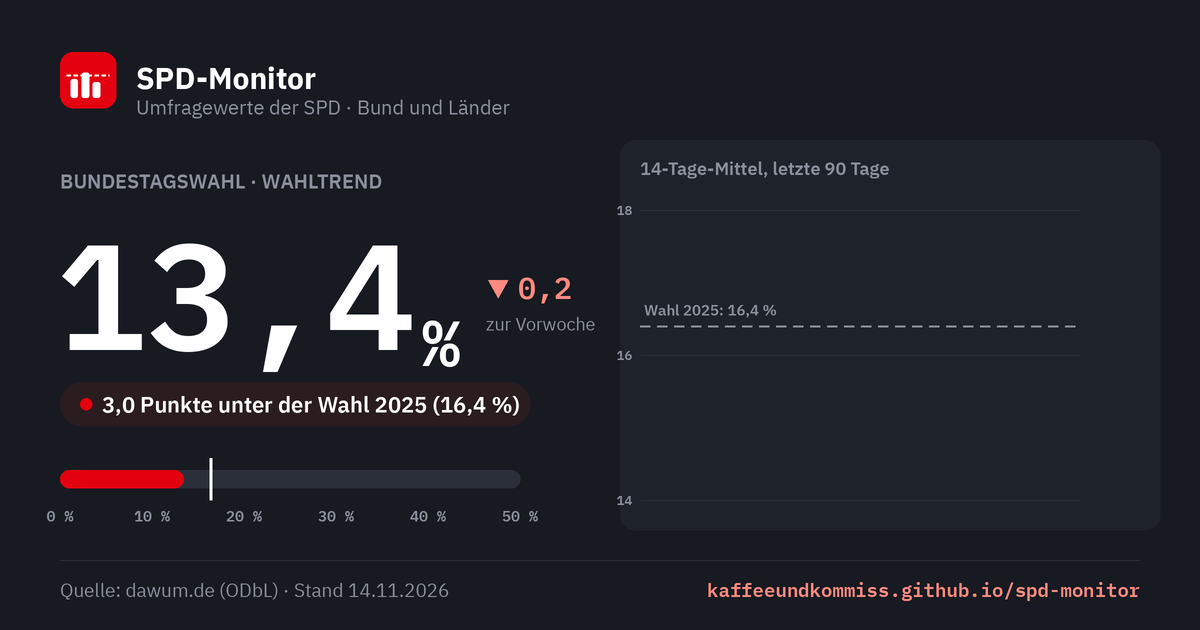
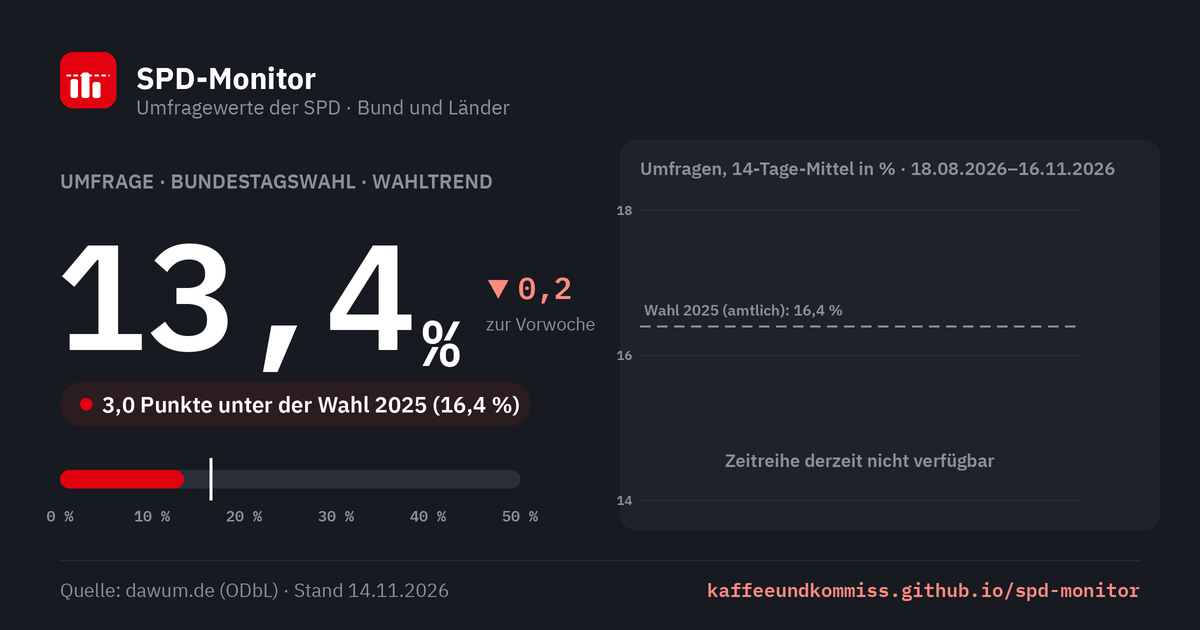
Diagramme eindeutig beschriften: Umfrage, amtliches Ergebnis, Chronik
Kennzeichen je Diagramm, Einheit, Zeitraum und Stand; Vorschaubilder
(og/make-og.py) mit derselben Kennzeichnung, damit das wöchentliche
Update die Beschriftung nicht überschreibt.

Claude-Session: https://claude.ai/code/session_01AuP7hKA5r64Vaqp6wB3yAR

diff --git a/index.html b/index.html
@@ -133,6 +133,9 @@
   .liste .lkopf{display:flex;justify-content:space-between;align-items:baseline;padding-bottom:8px;border-bottom:1px solid var(--line)}
   .liste .lkopf h3{margin:0;font-size:15px;font-weight:600}
   .liste .lkopf .skl{font-size:13px;color:var(--mute)}
+  .liste .llegende{margin:8px 0 0;font-size:13px;color:var(--mute)}
+  .abschnitt-legende{margin:6px 0 0;font-size:13px;color:var(--mute);max-width:46em}
+  .kachel .wart{font-size:12px;font-weight:600;color:var(--mute);margin-top:6px}
   .inst-zeile{display:grid;grid-template-columns:150px 1fr 60px;align-items:center;gap:14px;padding:7px 0;border-bottom:1px solid var(--hair)}
   .inst-zeile .nam{font-weight:500;font-size:14px;white-space:nowrap;overflow:hidden;text-overflow:ellipsis}
   .inst-zeile .dat{font-family:var(--mono);font-size:13px;color:var(--mute)}
@@ -240,7 +243,7 @@
   }
 .einstieg{margin:0 0 -20px;max-width:40em;color:var(--mute);font-size:16px;line-height:1.5}
 </style>
-<link rel="stylesheet" href="bereich.css?v=2">
+<link rel="stylesheet" href="bereich.css?v=3">
 </head>
 <body>
 <div class="kk-leiste"><div class="kk-in">
@@ -280,23 +283,28 @@
   <section id="bund-hero" aria-labelledby="bund-titel" data-teilen="Bundestagswahl"></section>
 
   <section id="bund-verlauf" class="karte verlauf" aria-labelledby="verlauf-titel" data-teilen="Zeitverlauf Bund" hidden>
+    <span class="art umfrage">Umfragen</span>
     <h2 id="verlauf-titel">SPD im Zeitverlauf · Bund</h2>
     <p class="sub" id="verlauf-sub">Punkte: Einzelumfragen · Linie: 14-Tage-Mittel</p>
     <div id="verlauf-chart" class="fv-chart"></div>
-    <p class="fv-quelle">Quelle: <a href="https://dawum.de/Bundestag/" rel="noopener">dawum.de</a> · 14-Tage-Mittel ungewichtet</p>
+    <p class="fv-quelle" id="verlauf-quelle">Quelle: <a href="https://dawum.de/Bundestag/" rel="noopener">dawum.de</a> (ODbL) · 14-Tage-Mittel ungewichtet</p>
   </section>
 
   <section id="anstehend" aria-labelledby="anstehend-titel" data-teilen="Anstehende Wahlen">
+    <span class="art umfrage">Umfragen</span>
     <div class="kopfzeile">
       <h2 id="anstehend-titel">Anstehende Wahlen</h2>
       <span class="hint">nächster Termin zuerst</span>
     </div>
+    <p class="abschnitt-legende">Große Zahl: Umfragewert in % (Wahltrend, sonst Ø der neuesten Umfrage je Institut), kein Ergebnis. Balken 0–50 %, gestrichelt: amtliches Ergebnis der letzten Wahl im Land.</p>
     <div class="kacheln" id="anstehend-grid" style="margin-top:16px"></div>
-    <p class="quelle">Quelle: <a href="https://dawum.de" rel="noopener">dawum.de</a> (ODbL) · ohne Wahltrend: Ø der neuesten Umfrage je Institut · Vergleich: amtliches Ergebnis der letzten Wahl im Land</p>
+    <p class="quelle">Quelle: <a href="https://dawum.de" rel="noopener">dawum.de</a> (ODbL) · ohne Wahltrend: Ø der neuesten Umfrage je Institut · Vergleich: amtliches Ergebnis der letzten Wahl im Land<span id="anstehend-stand"></span></p>
   </section>
 
   <section id="gelaufen" aria-labelledby="gelaufen-titel" data-teilen="Gelaufene Wahlen" data-quelle="amtliche Endergebnisse der Landeswahlleitungen" hidden>
+    <span class="art amtlich">Amtliche Ergebnisse</span>
     <div class="kopfzeile"><h2 id="gelaufen-titel">Gelaufene Wahlen</h2></div>
+    <p class="abschnitt-legende">Amtliche Endergebnisse in %, Quelle je Zeile. Zur Vorwahl: Veränderung in Prozentpunkten. Balken 0–50 %, gestrichelt: Ergebnis der Wahl davor.</p>
     <div class="karte tabelle" id="gelaufen-tabelle" style="margin-top:16px"></div>
   </section>
 </main>
@@ -480,6 +488,10 @@
     return '';
   }
 
+  // Kennzeichen über jedem Diagramm: Umfrage oder amtliches Ergebnis (Gestaltung in bereich.css).
+  const artMarke = (art) => art === 'amtlich'
+    ? '<span class="art amtlich">Amtliches Ergebnis</span>' : '<span class="art umfrage">Umfragen</span>';
+
   const gruppen = gruppiereEbenen(data.ebenen || [], NOW);
 
   // ---------- Bund-Hero ----------
@@ -506,6 +518,7 @@
 
     heroEl.innerHTML = `<div class="karte hero">
       <div class="zahlen">
+        ${artMarke(lz.art === 'ergebnis' ? 'amtlich' : 'umfrage')}
         <h2 class="ueberschrift" id="bund-titel">${esc(bund.name)} · ${
           lz.art === 'trend' ? 'Wahltrend' : lz.art === 'ergebnis' ? 'Amtliches Ergebnis' : 'Ø der Umfragen'}</h2>
         <div class="leitzahl">
@@ -521,7 +534,7 @@
             ${balken(lz.wert, ref, (ref ? '<div class="marklbl">Wahl ' + esc(ref.jahr) + ': ' + pz(ref.wert) + '</div>' : '') + punkte)}
           </div>
           <div class="achse"><span>0 %</span><span>10 %</span><span>20 %</span><span>30 %</span><span>40 %</span><span>50 %</span></div>
-          <div class="legende">Balken: ${lz.art === 'trend' ? 'Wahltrend' : 'Leitzahl'} · Punkte: Einzelumfragen${ref ? ' · gestrichelt: Ergebnis der Wahl ' + esc(ref.jahr) : ''}</div>
+          <div class="legende">Angaben in %. Balken: ${lz.art === 'trend' ? 'Wahltrend (Umfragen)' : lz.art === 'ergebnis' ? 'amtliches Ergebnis' : 'Ø der Umfragen'} · Punkte: Einzelumfragen${ref ? ' · gestrichelt: amtliches Ergebnis der Wahl ' + esc(ref.jahr) : ''}</div>
         </div>
         <dl class="kennzahlen">
           <div><dt>Ø neueste Umfrage je Institut</dt><dd>${lz.avg == null ? '–' : pz(lz.avg)}</dd></div>
@@ -539,6 +552,7 @@
           <div class="lkopf">
             <h3>Neueste Umfrage je Institut</h3><span class="skl">Skala 0–50 %</span>
           </div>
+          <p class="llegende">Balken: Umfragewert in %${ref ? ' · gestrichelt: amtliches Ergebnis der Wahl ' + esc(ref.jahr) : ''}</p>
           ${rows.length ? rows.slice().sort((a, b) => (b.datum || '').localeCompare(a.datum || '')).map((r) =>
             `<div class="inst-zeile">
                <div><div class="nam">${esc(r.institut)}</div><div class="dat">${dfmt(r.datum)}</div></div>
@@ -584,8 +598,17 @@
     }
     const linie = gleitendesMittel(punkte, FENSTER);
     const sub = document.getElementById('verlauf-sub');
-    if(sub) sub.textContent = `Letzte ${TAGE} Tage · Punkte: Einzelumfragen · `
-      + `Linie: ${FENSTER}-Tage-Mittel`;
+    // Zeitraum und Stand als Datum, nicht nur "letzte 90 Tage": ein Screenshot muss
+    // auch Wochen später noch sagen, welches Fenster er zeigt.
+    const refV = vw(bund);
+    const bisT = NOW || new Date();
+    const vonT = new Date(Date.UTC(bisT.getUTCFullYear(), bisT.getUTCMonth(), bisT.getUTCDate()) - TAGE * 864e5);
+    const isoT = (t) => new Date(t).toISOString().slice(0, 10);
+    if(sub) sub.textContent = `Umfragewerte Bundestagswahl in %, ${dfmt(isoT(vonT))}–${dfmt(isoT(bisT))} `
+      + `(letzte ${TAGE} Tage) · Punkte: Einzelumfragen · Linie: ${FENSTER}-Tage-Mittel`
+      + (refV ? ` · gestrichelt: amtliches Ergebnis ${refV.jahr}` : '');
+    const vq = document.getElementById('verlauf-quelle');
+    if(vq) vq.append(` · letzte Umfrage vom ${dfmt(isoT(punkte[punkte.length - 1].t))}`);
 
     const NS = 'http://www.w3.org/2000/svg';
     const el = (n, a, eltern) => { const e = document.createElementNS(NS, n);
@@ -664,7 +687,7 @@
       // Beschriftung der letzten Wahl erst nach den Punkten zeichnen: so liegt ihr Hof
       // über den Umfragepunkten und die Angabe bleibt auch am Handy lesbar.
       if(ref) el('text', {x: ml + 4, y: Y(ref.wert) - 6, 'font-size': 12, 'font-weight': 600,
-        class: 'fv-frei', fill: 'var(--fv-vorwahl)'}, svg).textContent = 'Wahl ' + ref.jahr + ': ' + fmt(ref.wert) + ' %';
+        class: 'fv-frei', fill: 'var(--fv-vorwahl)'}, svg).textContent = 'Wahl ' + ref.jahr + ' (amtlich): ' + fmt(ref.wert) + ' %';
 
       const letzte = linie[linie.length - 1];
       el('text', {x: Math.min(X(letzte.t) + 6, W - 4), y: Y(letzte.v), dy: '0.32em',
@@ -758,6 +781,7 @@
         </div>
         ${tage != null ? `<span class="tage">in ${tage} T.</span>` : ''}
       </div>
+      <div class="wart">${lz.art === 'ergebnis' ? 'Amtliches Ergebnis' : lz.art === 'trend' ? 'Umfrage · Wahltrend' : 'Umfrage · Ø'}</div>
       <div class="wert">
         <span class="num">${lz.wert == null ? '–' : pz(lz.wert)}</span>
         <span class="pill ${h.status}">${esc(datenhinweis ? 'nicht ausgewiesen' : h.kurz)}</span>
@@ -780,8 +804,8 @@
     document.getElementById('gelaufen-tabelle').innerHTML = `<table>
       <thead><tr>
         <th>Wahl</th><th>Datum</th>
-        <th style="text-align:right">Ergebnis</th>
-        ${mitTrend ? '<th style="text-align:right">Letzter Trend</th>' : ''}
+        <th style="text-align:right">Ergebnis (amtl.)</th>
+        ${mitTrend ? '<th style="text-align:right">Letzter Wahltrend (Umfrage)</th>' : ''}
         <th class="vgl" style="text-align:right">Zur Vorwahl</th>
         <th class="abstand">Ergebnis und Vorwahl</th>
       </tr></thead>
@@ -798,7 +822,7 @@
         return `<tr id="zeile-${esc(e.id)}">
           <td class="wahl">${esc(teileName(e.name).land)}${beleg}</td>
           <td class="mono">${dfmt(e.wahltermin)}</td>
-          <td class="erg">${lz.wert != null ? pz(lz.wert) + (erg.vorlaeufig ? ' *' : '') : '–'}${vgl
+          <td class="erg">${lz.wert != null ? pz(lz.wert) + (lz.art !== 'ergebnis' ? ' (Umfrage)' : erg.vorlaeufig ? ' *' : '') : '–'}${vgl
             ? '<span class="vgl-kurz">' + vgl + ' zu ' + esc(vw(e).jahr) + '</span>' : ''}</td>
           ${mitTrend ? `<td class="trend">${t.wert != null ? pz(t.wert) : '–'}</td>` : ''}
           <td class="vgl" title="${vgl ? 'Wahl ' + esc(vw(e).jahr) + ': ' + pz(vw(e).wert) : ''}">${vgl || '–'}</td>
@@ -808,6 +832,13 @@
       ${gelaufen.some((e) => (e.wahlergebnis || {}).vorlaeufig)
         ? '<p class="basis" style="padding:0 20px 14px">* vorläufiges amtliches Ergebnis</p>' : ''}`;
   }
+
+  const standSeite = SNAP ? 'Momentaufnahme ' + kwText(SNAP) : data.erstellt ? 'Stand ' + dfmt(data.erstellt) : '';
+  const ast = document.getElementById('anstehend-stand');
+  // Die Kacheln zeigen live abgerufene Umfragen, wenn dawum erreichbar war – dann gilt deren Stand.
+  const liveStand = !SNAP && db && db.Database && db.Database.Last_Update;
+  if(ast) ast.textContent = liveStand ? ' · Umfragen live, Datenbank-Stand ' + dfmt(liveStand)
+    : standSeite ? ' · ' + standSeite : '';
 
   // Link- und Bild-Knöpfe erst jetzt: die Abschnitte sind gerendert, und ein #Anker
   // aus einem geteilten Link kann angesprungen werden.

diff --git a/partei-seite.js b/partei-seite.js
@@ -15,6 +15,8 @@
       .map((b) => `<a href="${esc(b.url)}" rel="noopener">${esc(b.name)}</a>`);
     const hinweis = (d.belege_hinweis || {})[k];
     const teile = [links.length ? 'Quelle: ' + links.join(' · ') : '', hinweis ? esc(hinweis) : ''].filter(Boolean);
+    if(teile.length && d.stand && ['wahlen', 'zeitleiste', 'vorsitz'].includes(k))
+      teile.push('· Stand ' + dfmt(d.stand) + ' (zuletzt geprüft)');
     if(teile.length) p.innerHTML = teile.join(' '); else p.remove();
   });
 
@@ -66,11 +68,15 @@
   if(k && $('kennzahlen')){
     const regierung = d.wahlen.filter((w) => w.rolle === 'Regierung').length;
     document.getElementById('kennzahlen').innerHTML = [
-      ['Bestes Ergebnis', fmt(k.best.ergebnis) + ' %', 'Bundestagswahl ' + k.best.jahr, ''],
-      ['Letztes Ergebnis', fmt(k.letzte.ergebnis) + ' %', 'Bundestagswahl ' + k.letzte.jahr + ' · ' + k.letzte.rolle, ''],
+      ['Bestes Ergebnis', fmt(k.best.ergebnis) + ' %', 'Bundestagswahl ' + k.best.jahr + ' · amtlich', ''],
+      ['Letztes Ergebnis', fmt(k.letzte.ergebnis) + ' %', 'Bundestagswahl ' + k.letzte.jahr + ' · amtlich · danach ' + k.letzte.rolle, ''],
       ['In Regierung danach', regierung + ' von ' + k.anzahl, 'Wahlperioden nach den Wahlen ' + d.wahlen[0].jahr + '–' + k.letzte.jahr, ''],
     ].map(([l, n, s, c]) => `<div class="karte"><div class="lbl">${esc(l)}</div><div class="num ${c}">${esc(n)}</div><div class="sub">${esc(s)}</div></div>`).join('');
   }
+
+  // ---------- Zeitraum je Diagramm (Titel/Untertitel) ----------
+  if((d.wahlen || []).length && $('wahlen-titel'))
+    $('wahlen-titel').textContent = 'Bundestagswahlen ' + d.wahlen[0].jahr + '–' + d.wahlen[d.wahlen.length - 1].jahr;
 
   // ---------- Bundesvorsitzende: Kennzahlen und Tabelle ----------
   // Laufende Amtszeit zählt bis heute, deshalb einmal beim Laden berechnet.
@@ -104,6 +110,7 @@
     const mt = 4, mb = 24, zh = 24, H = mt + zeiten.length * zh + mb;
     svg.setAttribute('viewBox', `0 0 ${W} ${H}`);
     const von = Date.UTC(Math.min(...zeiten.map((z) => new Date(z.a).getUTCFullYear())), 0, 1), bis = Math.max(...zeiten.map((z) => z.b));
+    if($('vorsitz-zeitraum')) $('vorsitz-zeitraum').textContent = 'Zeitraum ' + new Date(von).getUTCFullYear() + ' bis heute, x-Achse in Jahren. ';
     const X = (t) => ml + (t - von) / (bis - von) * (W - ml - mr);
     const tip = tooltip(host);
     const schritt = schmal ? 20 : 10;
@@ -127,7 +134,7 @@
   function wahlen(){
     const host = document.getElementById('chart-wahlen'); host.replaceChildren();
     const rows = d.wahlen, W = Math.max(280, host.clientWidth), H = 250, schmal = W < 420;
-    const ml = 30, mr = 6, mt = 22, mb = 26;
+    const ml = schmal ? 30 : 42, mr = 6, mt = 22, mb = 26;
     const yMax = Math.max(16, Math.ceil(Math.max(...rows.map((r) => r.ergebnis)) / 10) * 10);
     const band = (W - ml - mr) / rows.length, bw = Math.min(32, band * 0.62);
     const X = (i) => ml + i * band + band / 2, Y = (v) => H - mb - v / yMax * (H - mt - mb);
@@ -136,7 +143,7 @@
     const tip = tooltip(host);
     for(let v = 0; v <= yMax; v += 10){
       el('line', {x1: ml, x2: W - mr, y1: Y(v), y2: Y(v), stroke: 'var(--line)'}, svg);
-      txt(svg, {x: ml - 6, y: Y(v), dy: '0.32em', 'text-anchor': 'end'}, v);
+      txt(svg, {x: ml - 6, y: Y(v), dy: '0.32em', 'text-anchor': 'end'}, schmal ? v : v + ' %');
     }
     rows.forEach((r, i) => {
       const b = el('rect', {x: X(i) - bw / 2, y: Y(r.ergebnis), width: bw, height: Y(0) - Y(r.ergebnis),
@@ -156,6 +163,7 @@
     const host = document.getElementById('chart-zeit'); host.replaceChildren();
     const jetzt = new Date();
     const von = Date.UTC(1998, 0, 1), bis = Date.UTC(jetzt.getUTCFullYear(), jetzt.getUTCMonth(), jetzt.getUTCDate());
+    if($('zeit-zeitraum')) $('zeit-zeitraum').textContent = 'Zeitraum ' + new Date(von).getUTCFullYear() + ' bis heute. ';
     const balken = PU.zeitBalken(d.zeitleiste, von, bis);
     const W = Math.max(280, host.clientWidth), ml = 4, mr = 4, mt = 4, mb = 24, lh = 26, kopf = 16;
     const H = mt + SPUREN.length * (lh + kopf + 4) + mb;

diff --git a/partei.html b/partei.html
@@ -33,7 +33,7 @@
 <link href="https://fonts.googleapis.com/css2?family=Barlow+Condensed:wght@500;600;700&family=IBM+Plex+Sans:wght@400;500;600;700&family=IBM+Plex+Mono:wght@400;500;600&display=swap" rel="stylesheet">
 <link rel="stylesheet" href="basis.css">
 <link rel="stylesheet" href="partei.css?v=2">
-<link rel="stylesheet" href="bereich.css?v=2">
+<link rel="stylesheet" href="bereich.css?v=3">
 </head>
 <body>
 <div class="kk-leiste"><div class="kk-in">
@@ -73,8 +73,9 @@
   <section class="kennzahlen" id="kennzahlen" aria-label="Kennzahlen"></section>
 
   <section class="karte diagramm" id="bundestagswahlen" aria-labelledby="wahlen-titel" data-teilen="Bundestagswahlen" data-quelle="Bundeswahlleiterin">
+    <span class="art amtlich">Amtliche Ergebnisse</span>
     <h2 id="wahlen-titel">Bundestagswahlen</h2>
-    <p class="sub">Zweitstimmen in Prozent. Farbe: Rolle in der folgenden Wahlperiode.</p>
+    <p class="sub">Amtliche Endergebnisse, keine Umfragen: Zweitstimmenanteil in %. Farbe: Rolle in der folgenden Wahlperiode.</p>
     <div class="chart" id="chart-wahlen"></div>
     <div class="legende" id="legende-wahlen"></div>
     <p class="quelle" data-beleg="wahlen"></p>
@@ -82,8 +83,9 @@
 
 
   <section class="karte diagramm" id="zeitleiste" aria-labelledby="zeit-titel" data-teilen="Vorsitz, Programme, Rolle im Bund" data-quelle="bpb, Bundeswahlleiterin">
+    <span class="art chronik">Chronik</span>
     <h2 id="zeit-titel">Vorsitz, Programme, Rolle im Bund</h2>
-    <p class="sub">Senkrechte Linien: Bundestagswahlen.</p>
+    <p class="sub"><span id="zeit-zeitraum"></span>Senkrechte Linien: Bundestagswahlen.</p>
     <div class="chart" id="chart-zeit"></div>
     <div class="legende" id="legende-zeit"></div>
     <dl class="zeit-schluessel" id="schluessel-zeit" hidden></dl>
@@ -97,8 +99,9 @@
     </div>
     <div class="kennzahlen" id="vorsitz-kennzahlen"></div>
     <div class="karte diagramm" id="vorsitzende" data-teilen="Parteivorsitz" data-quelle="SPD, bpb">
+      <span class="art chronik">Chronik</span>
       <h2 id="vorsitz-chart-titel">Amtszeiten im Zeitstrahl</h2>
-      <p class="sub">Amtsdauer in Jahren je Amtszeit, Doppelspitzen als ein Eintrag. Rot: amtierend, bis heute gerechnet.</p>
+      <p class="sub"><span id="vorsitz-zeitraum"></span>Amtsdauer in Jahren je Amtszeit, Doppelspitzen als ein Eintrag. Rot: amtierend, bis heute gerechnet.</p>
       <div class="chart" id="chart-vorsitz"></div>
       <details class="vtab">
         <summary>Alle Amtszeiten als Tabelle</summary>

diff --git a/tests/e2e/polls.spec.js b/tests/e2e/polls.spec.js
@@ -455,7 +455,7 @@ test.describe("Zeitverlauf Bund", () => {
 
   test("markiert die letzte Bundestagswahl gestrichelt und beschriftet sie", async ({ page }) => {
     await mitVerlauf(page);
-    await expect(page.locator("#verlauf-chart text", { hasText: "Wahl 2025: 4,3 %" })).toHaveCount(1);
+    await expect(page.locator("#verlauf-chart text", { hasText: "Wahl 2025 (amtlich): 4,3 %" })).toHaveCount(1);
     await expect(page.locator('#verlauf-chart line[stroke-dasharray]')).toHaveCount(1);
   });
 
@@ -523,7 +523,7 @@ test.describe("Zeitverlauf Bund", () => {
 
   test("nennt den Zeitraum in der Unterzeile", async ({ page }) => {
     await mitVerlauf(page);
-    await expect(page.locator("#verlauf-sub")).toContainText("Letzte 90 Tage");
+    await expect(page.locator("#verlauf-sub")).toContainText("letzte 90 Tage");
   });
 
   test.describe("mobil", () => {
@@ -564,5 +564,24 @@ test.describe("Zeitverlauf Bund", () => {
       expect(tip.y).toBeGreaterThanOrEqual(chart.y - 1);
       expect(tip.y + tip.height).toBeLessThanOrEqual(chart.y + chart.height + 1);
     });
+  });
+});
+
+// Umfragewerte, Wahlergebnisse und Zeitverlauf dürfen nicht verwechselt werden:
+// jeder Abschnitt trägt ein Kennzeichen als Text, Kacheln und Tabelle zusätzlich je Wert.
+test.describe("Kennzeichnung der Diagramme", () => {
+  test("Umfragen und amtliche Ergebnisse sind je Abschnitt gekennzeichnet", async ({ page }) => {
+    await seite(page);
+    await expect(page.locator("#bund-hero .art")).toHaveText("Umfragen");
+    await expect(page.locator("#bund-verlauf .art")).toHaveText("Umfragen");
+    await expect(page.locator("#anstehend .art")).toHaveText("Umfragen");
+    await expect(page.locator("#gelaufen .art")).toHaveText("Amtliche Ergebnisse");
+    await expect(page.locator("#gelaufen-tabelle thead")).toContainText("Ergebnis (amtl.)");
+    await expect(page.locator("#anstehend .kachel .wart").first()).toContainText("Umfrage");
+  });
+
+  test("die Quelle der Kacheln nennt den Stand", async ({ page }) => {
+    await seite(page);
+    await expect(page.locator("#anstehend .quelle")).toContainText("Stand");
   });
 });

diff --git a/tests/e2e/partei.spec.js b/tests/e2e/partei.spec.js
@@ -74,3 +74,16 @@ test("Zeitleiste am Desktop: Schlüssel nur für Spuren, deren Balken zu schmal 
   const schl = page.locator("#schluessel-zeit");
   await expect(schl).not.toContainText("Hamburger");  // passt beschriftet in den Balken
 });
+
+test("Diagramme der Parteiseite: Kennzeichen, Einheit, Zeitraum und Stand", async ({ page }) => {
+  await page.goto("/partei.html");
+  await expect(page.locator("#chart-wahlen rect").first()).toBeVisible();
+  await expect(page.locator("#bundestagswahlen .art")).toHaveText("Amtliche Ergebnisse");
+  await expect(page.locator("#wahlen-titel")).toHaveText(/^Bundestagswahlen \d{4}–\d{4}$/);
+  await expect(page.locator("#chart-wahlen text", { hasText: /^0 %$/ })).toHaveCount(1);
+  await expect(page.locator("#bundestagswahlen .quelle")).toContainText("Stand");
+  await expect(page.locator("#zeitleiste .art")).toHaveText("Chronik");
+  await expect(page.locator("#zeit-zeitraum")).toContainText("bis heute");
+  await expect(page.locator("#vorsitzende .art")).toHaveText("Chronik");
+  await expect(page.locator("#vorsitz-zeitraum")).toContainText("bis heute");
+});

diff --git a/bereich.css b/bereich.css
@@ -50,3 +50,12 @@
 
 /* Monitorname ist auf der Umfrageseite die Hauptüberschrift (h1) */
 .marke h1.name { margin: 0 }
+
+/* Kennzeichen über Diagrammen (22.11.2026): Umfrage, amtliches Ergebnis oder Chronik.
+   Als Text, nicht nur als Farbe, damit es auch in Graustufen und auf Screenshots eindeutig ist.
+   Umfragen gestrichelt (Schätzung), amtliche Ergebnisse vollflächig (festgestellt). */
+.art { display: inline-block; margin: 0 0 8px; padding: 3px 7px; font: 600 11px/1.3 var(--mono, monospace);
+  letter-spacing: .08em; text-transform: uppercase; border: 1px solid; border-radius: 0; white-space: nowrap }
+.art.umfrage { color: var(--kk-akzent, #1E4FD8); border-style: dashed; background: #FFFFFF }
+.art.amtlich { color: #FFFFFF; background: #000000; border-color: #000000 }
+.art.chronik { color: #555555; border-color: #D6D6D6; background: #FFFFFF }

diff --git a/tests/e2e/teilen.spec.js b/tests/e2e/teilen.spec.js
@@ -65,7 +65,7 @@ test.describe("Belege und Einordnung", () => {
 
   test("ohne Trendwerte gibt es keine leere Trend-Spalte", async ({ page }) => {
     await laden(page);
-    await expect(page.locator("#gelaufen-tabelle th")).not.toContainText(["Letzter Trend"]);
+    await expect(page.locator("#gelaufen-tabelle th")).not.toContainText(["Letzter Wahltrend"]);
   });
 
   test("ein Wert aus nur einer Umfrage ist als wenig belastbar markiert, auch am Handy", async ({ page }) => {

diff --git a/og/make-og.py b/og/make-og.py
@@ -132,7 +132,7 @@ def bild_umfragen(data, pfad):
     c = Leinwand()
     c.kopf("Umfragewerte der SPD · Bund und Länder")
 
-    c.text(60, 168, ("Bundestagswahl · " + art).upper(), HALB(20), GRAU)
+    c.text(60, 168, ("Umfrage · Bundestagswahl · " + art).upper(), HALB(20), GRAU)
     num = "–" if wert is None else fmt(wert)
     c.text(56, 196, num, MONO(150), WEISS)
     nx = 56 + c.breite(num, MONO(150))
@@ -179,7 +179,8 @@ def bild_umfragen(data, pfad):
     linie, ab, bis = mittel_14(((bund.get("verlauf") or {}).get("rows") or []), stichtag=erstellt)
     gx0, gx1, gy0, gy1 = 640, 1140, 190, 500
     c.rect(gx0 - 20, gy0 - 50, gx1 + 20, gy1 + 30, "#1E222B", 16)
-    c.text(gx0, gy0 - 22, "14-Tage-Mittel, letzte 90 Tage", HALB(18), GRAU, "lm")
+    c.text(gx0, gy0 - 22, f"Umfragen, 14-Tage-Mittel in % · {dfmt(ab.isoformat())}–{dfmt(bis.isoformat())}",
+           HALB(18), GRAU, "lm")
     werte = [v for _, v in linie] + ([rw] if rw is not None else [])
     ymin = max(0, int(min(werte or [0])) - 2)
     ymax = max(ymin + 4, int(max(werte or [4])) + 2)
@@ -190,11 +191,13 @@ def bild_umfragen(data, pfad):
         c.text(gx0 - 8, Y(v), f"{v}", MONO(13), GRAU, "rm")
     if rw is not None:
         c.gestrichelt(gx0, gx1 - 60, Y(rw), GRAU, 2)
-        c.text(gx0 + 4, Y(rw) - 16, f"Wahl {ref.get('jahr', '')}: {fmt(rw)} %", HALB(15), GRAU, "lm")
+        c.text(gx0 + 4, Y(rw) - 16, f"Wahl {ref.get('jahr', '')} (amtlich): {fmt(rw)} %", HALB(15), GRAU, "lm")
     if len(linie) >= 2:
         c.line([(X(t), Y(v)) for t, v in linie], WEISS, 3.5)
         t, v = linie[-1]
         c.text(X(t) + 10, Y(v), fmt(v) + " %", MONO(20), WEISS, "lm")
+    else:
+        c.text((gx0 + gx1 - 60) / 2, gy1 - 40, "Zeitreihe derzeit nicht verfügbar", HALB(18), GRAU, "mm")
 
     c.fuss(f"Quelle: dawum.de (ODbL) · Stand {dfmt(stand) if stand else 'unbekannt'}")
     c.speichern(pfad)
@@ -205,7 +208,7 @@ def bild_partei(partei, pfad):
     c.kopf("Die SPD auf Bundesebene")
     wahlen = partei["wahlen"]
     erste, letzte = wahlen[0], wahlen[-1]
-    c.text(60, 168, f"BUNDESTAGSWAHLEN {erste['jahr']}–{letzte['jahr']} · ZWEITSTIMMEN", HALB(20), GRAU)
+    c.text(60, 168, f"BUNDESTAGSWAHLEN {erste['jahr']}–{letzte['jahr']} · AMTLICHE ERGEBNISSE IN %", HALB(20), GRAU)
     beste = max(wahlen, key=lambda w: w["ergebnis"])
     c.text(60, 214, f"Bestes Ergebnis {fmt(beste['ergebnis'])} % ({beste['jahr']})", HALB(26), WEISS)
     c.text(60, 254, f"Zuletzt {fmt(letzte['ergebnis'])} % ({letzte['jahr']})", HALB(26), "#FF8A80")

diff --git a/README.md b/README.md
@@ -11,3 +11,10 @@ pip install -r requirements-dev.txt && pytest              # update.py
 npm install && npm test                                    # monitor-utils.js, partei-utils.js (Vitest)
 npm install && npx playwright install chromium && npm run test:e2e   # index.html, partei.html (Playwright)
 ```
+
+## Diagrammbeschriftung (seit 22.11.2026)
+
+Jedes Diagramm trägt ein Kennzeichen als Text (`.art` in `bereich.css`): **Umfragen** (gestrichelter Rahmen),
+**Amtliche Ergebnisse** (schwarz) oder **Chronik**. Dazu Titel, Einheit (%), Zeitraum, Quelle und Stand.
+Die Texte stehen in `index.html`, `partei.html`, `partei-seite.js` und `og/make-og.py`; `update.py` schreibt nur Daten
+und überschreibt sie nicht. Vergleichslinien heißen „Wahl JJJJ (amtlich)“.
